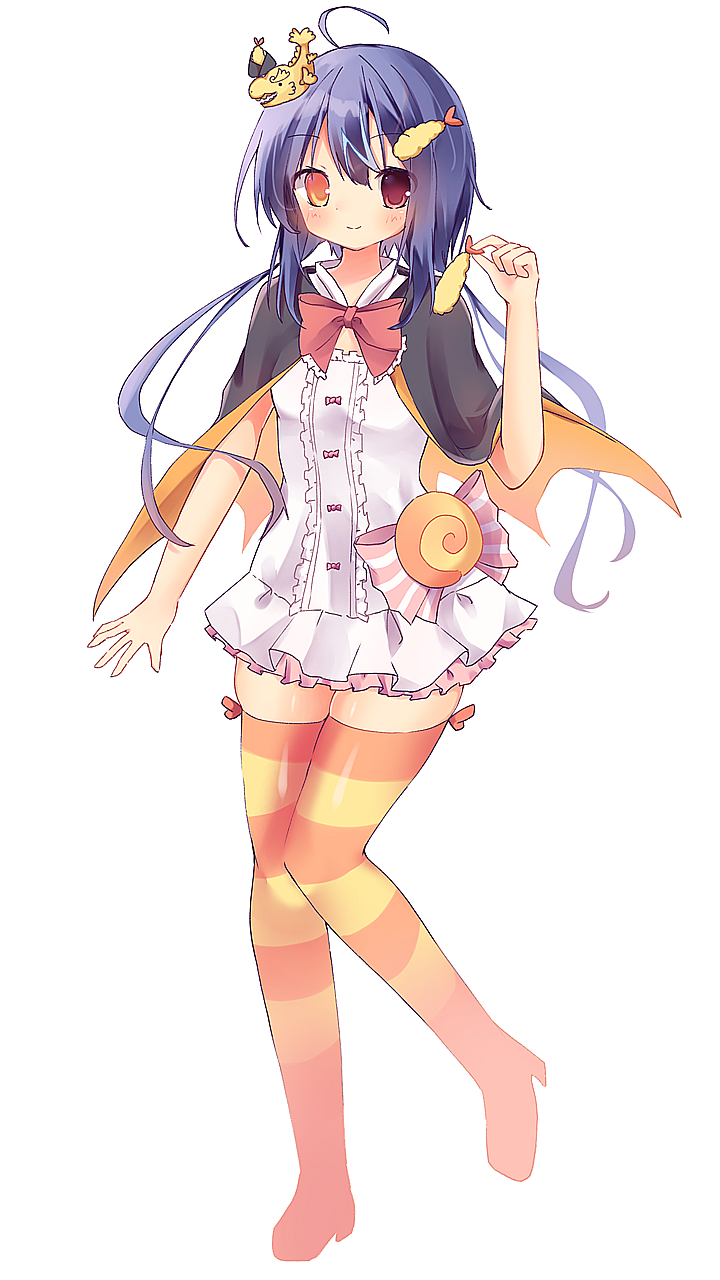
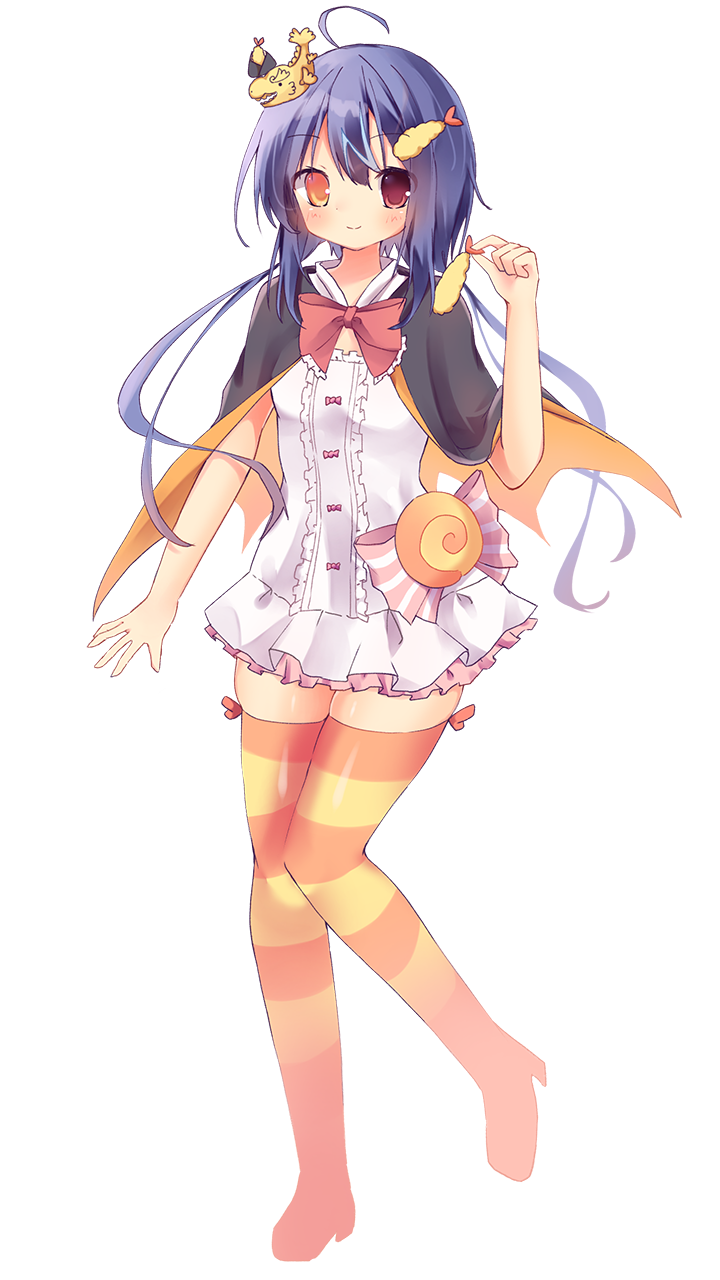
なごな透過修正

diff --git a/about.html b/about.html
@@ -29,7 +29,7 @@
         <!-- # なごなちゃんについて -->
         <h1 class="text-center display-3 text-decoration-underline mb-3 mt-5">なごなちゃん<br class="sp" />について</h1>
         <div class="justify-content-md-center my-3 row">
-          <img class="col-md-4 img-fluid zoomNagona" src="./media/about_works211101144001Character.png" data-raw="./media/about_works211101144001Character.png" alt="なごなちゃん" />
+          <img class="col-md-4 img-fluid zoomNagona" src="./media/about_works211101144001Character-thumb.png" data-raw="./media/about_works211101144001Character.png" alt="なごなちゃん" />
           <p class="col-md-4 text-center text-md-start align-self-start align-self-md-center">
             Lorem ipsum dolor sit amet consectetuer accumsan et. Aliquyam nonumy magna ipsum tation congue eirmod amet est rebum amet diam. Eum feugiat qui sit. Consetetur kasd sea doming. Adipiscing blandit gubergren eirmod lorem sadipscing dolor vero sed consequat at. Iusto tincidunt sit lobortis option takimata lorem lorem diam kasd feugiat gubergren diam magna dolore velit accusam. Lorem magna
             wisi eum elit commodo dolores. Labore sit sea nonumy accusam doming magna. At elitr amet elitr no est gubergren vulputate at qui diam. Dolor eos clita aliquyam. Nonumy dolore dolor hendrerit dolor sadipscing erat takimata nonumy et dolor sit sit in et et. Takimata nonumy invidunt congue ex lorem dolor erat justo rebum sea labore. Kasd diam duis ipsum at lorem. Duo eum lorem duis ut at
